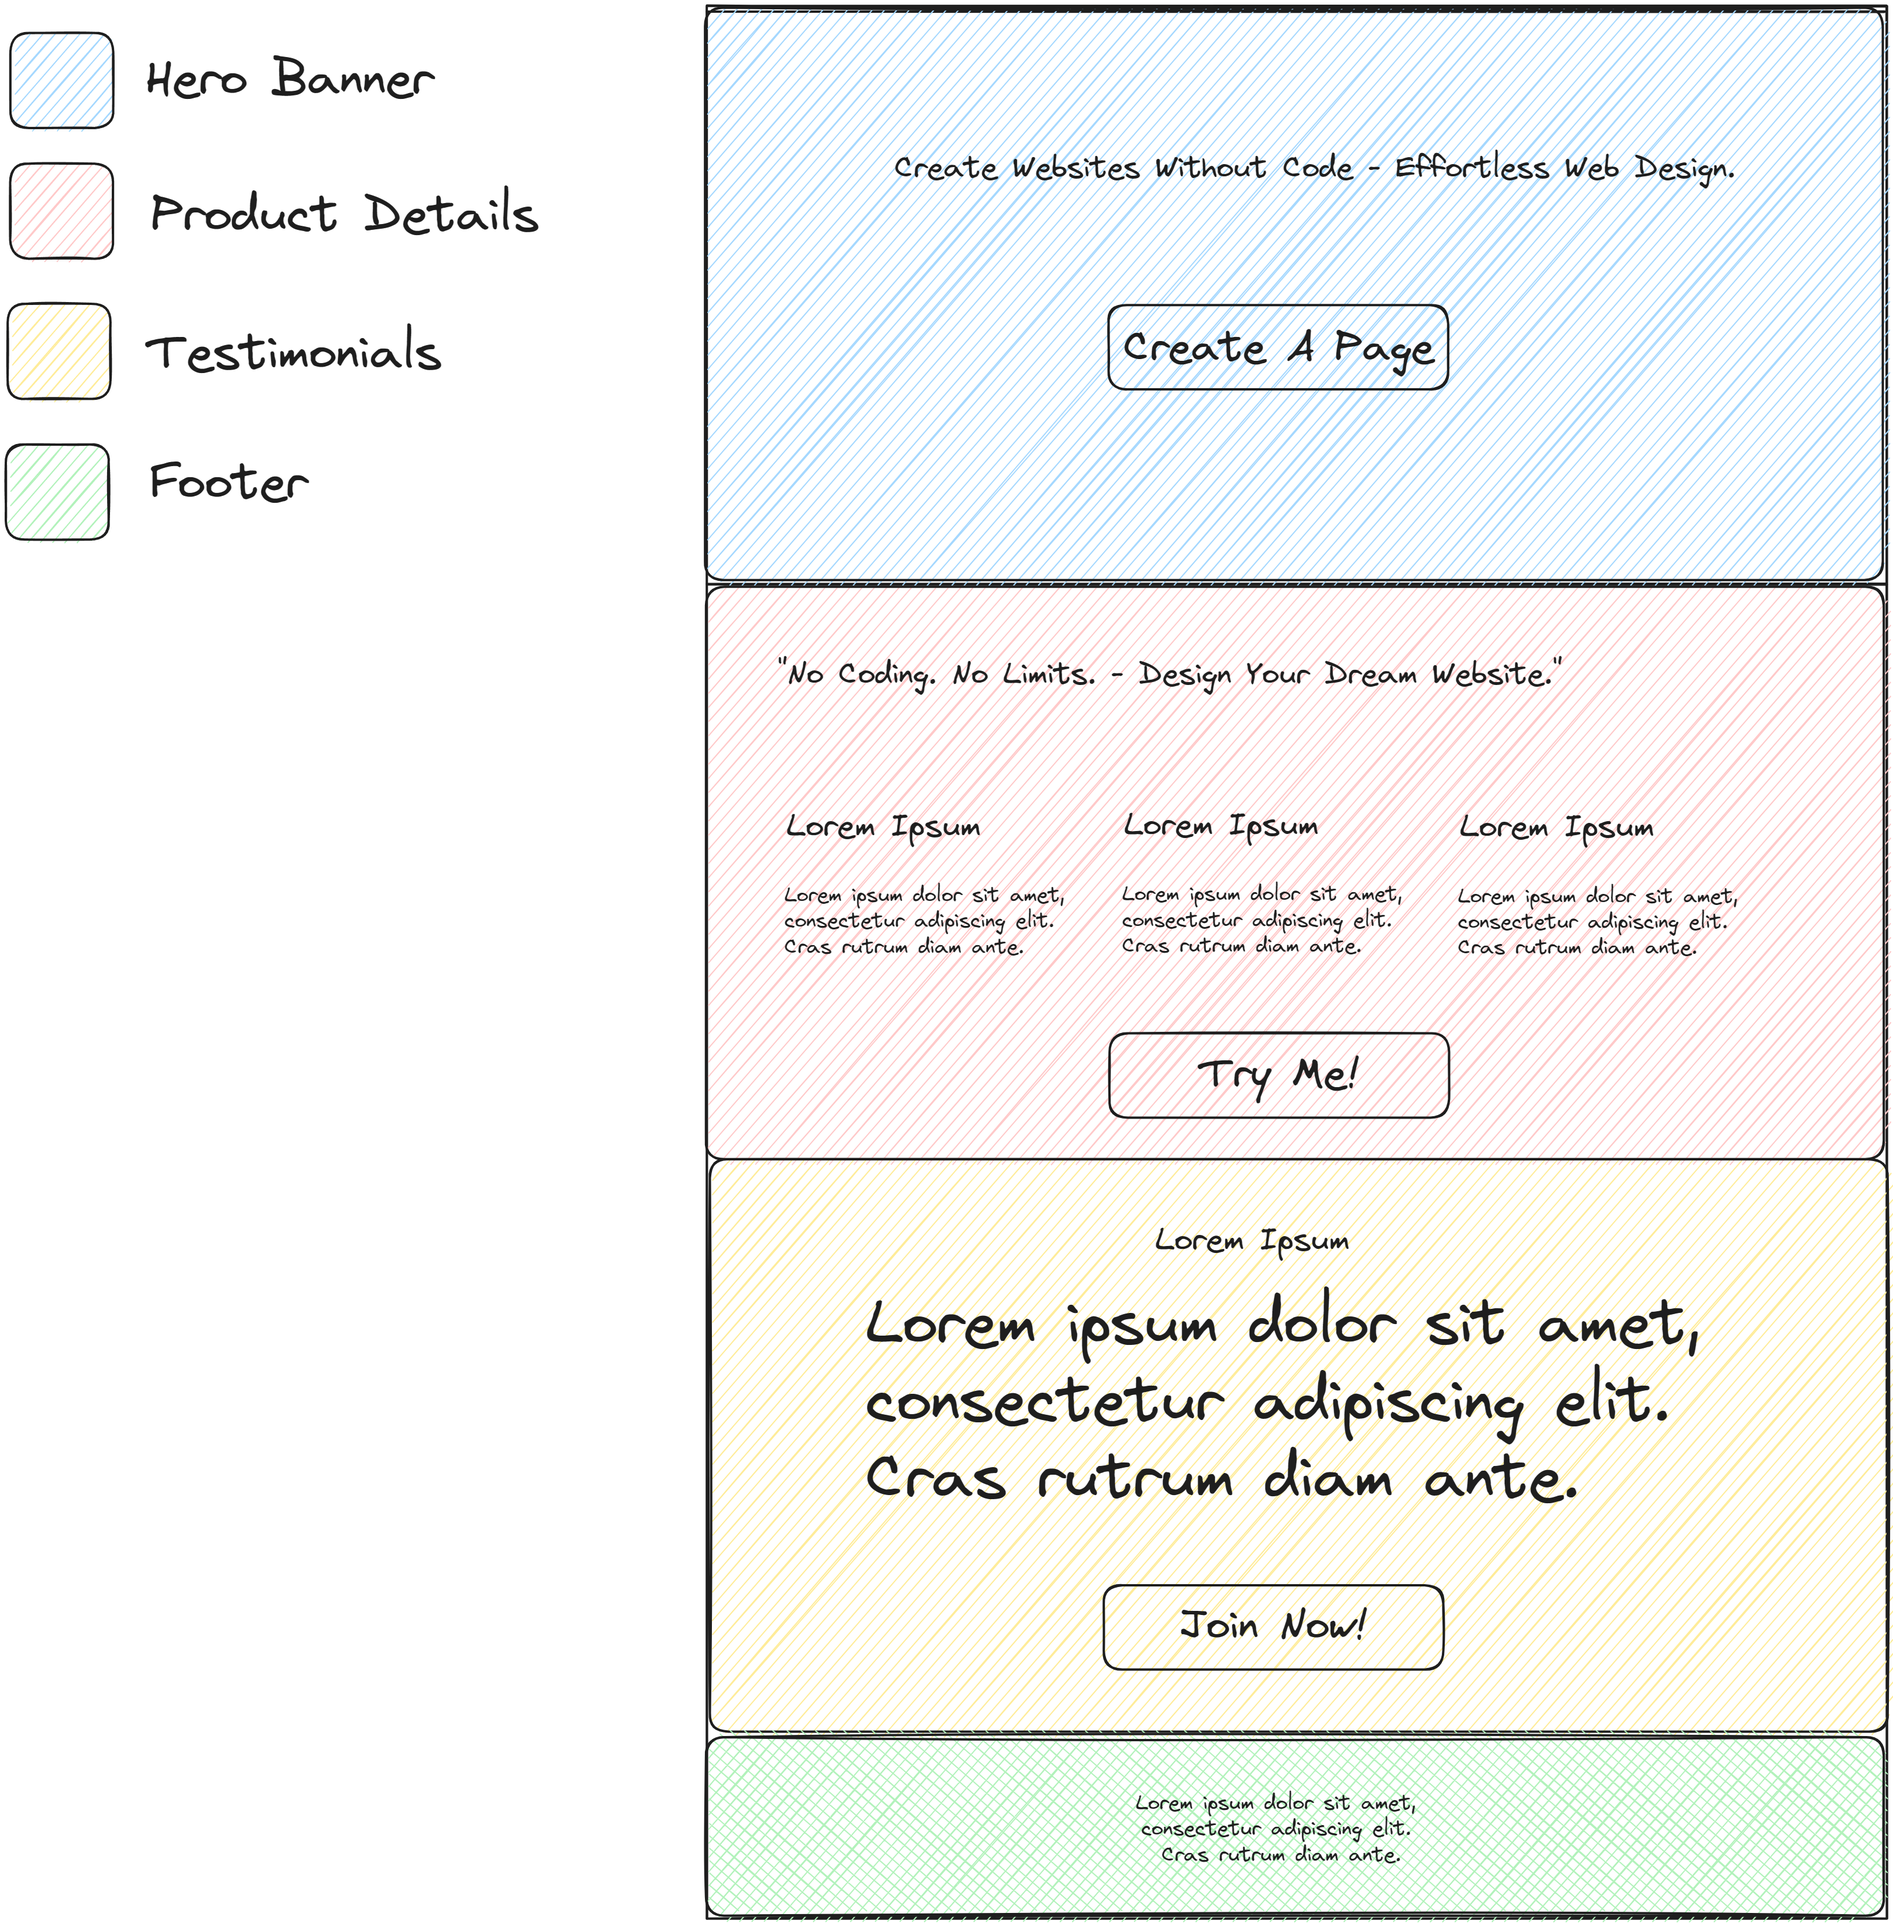
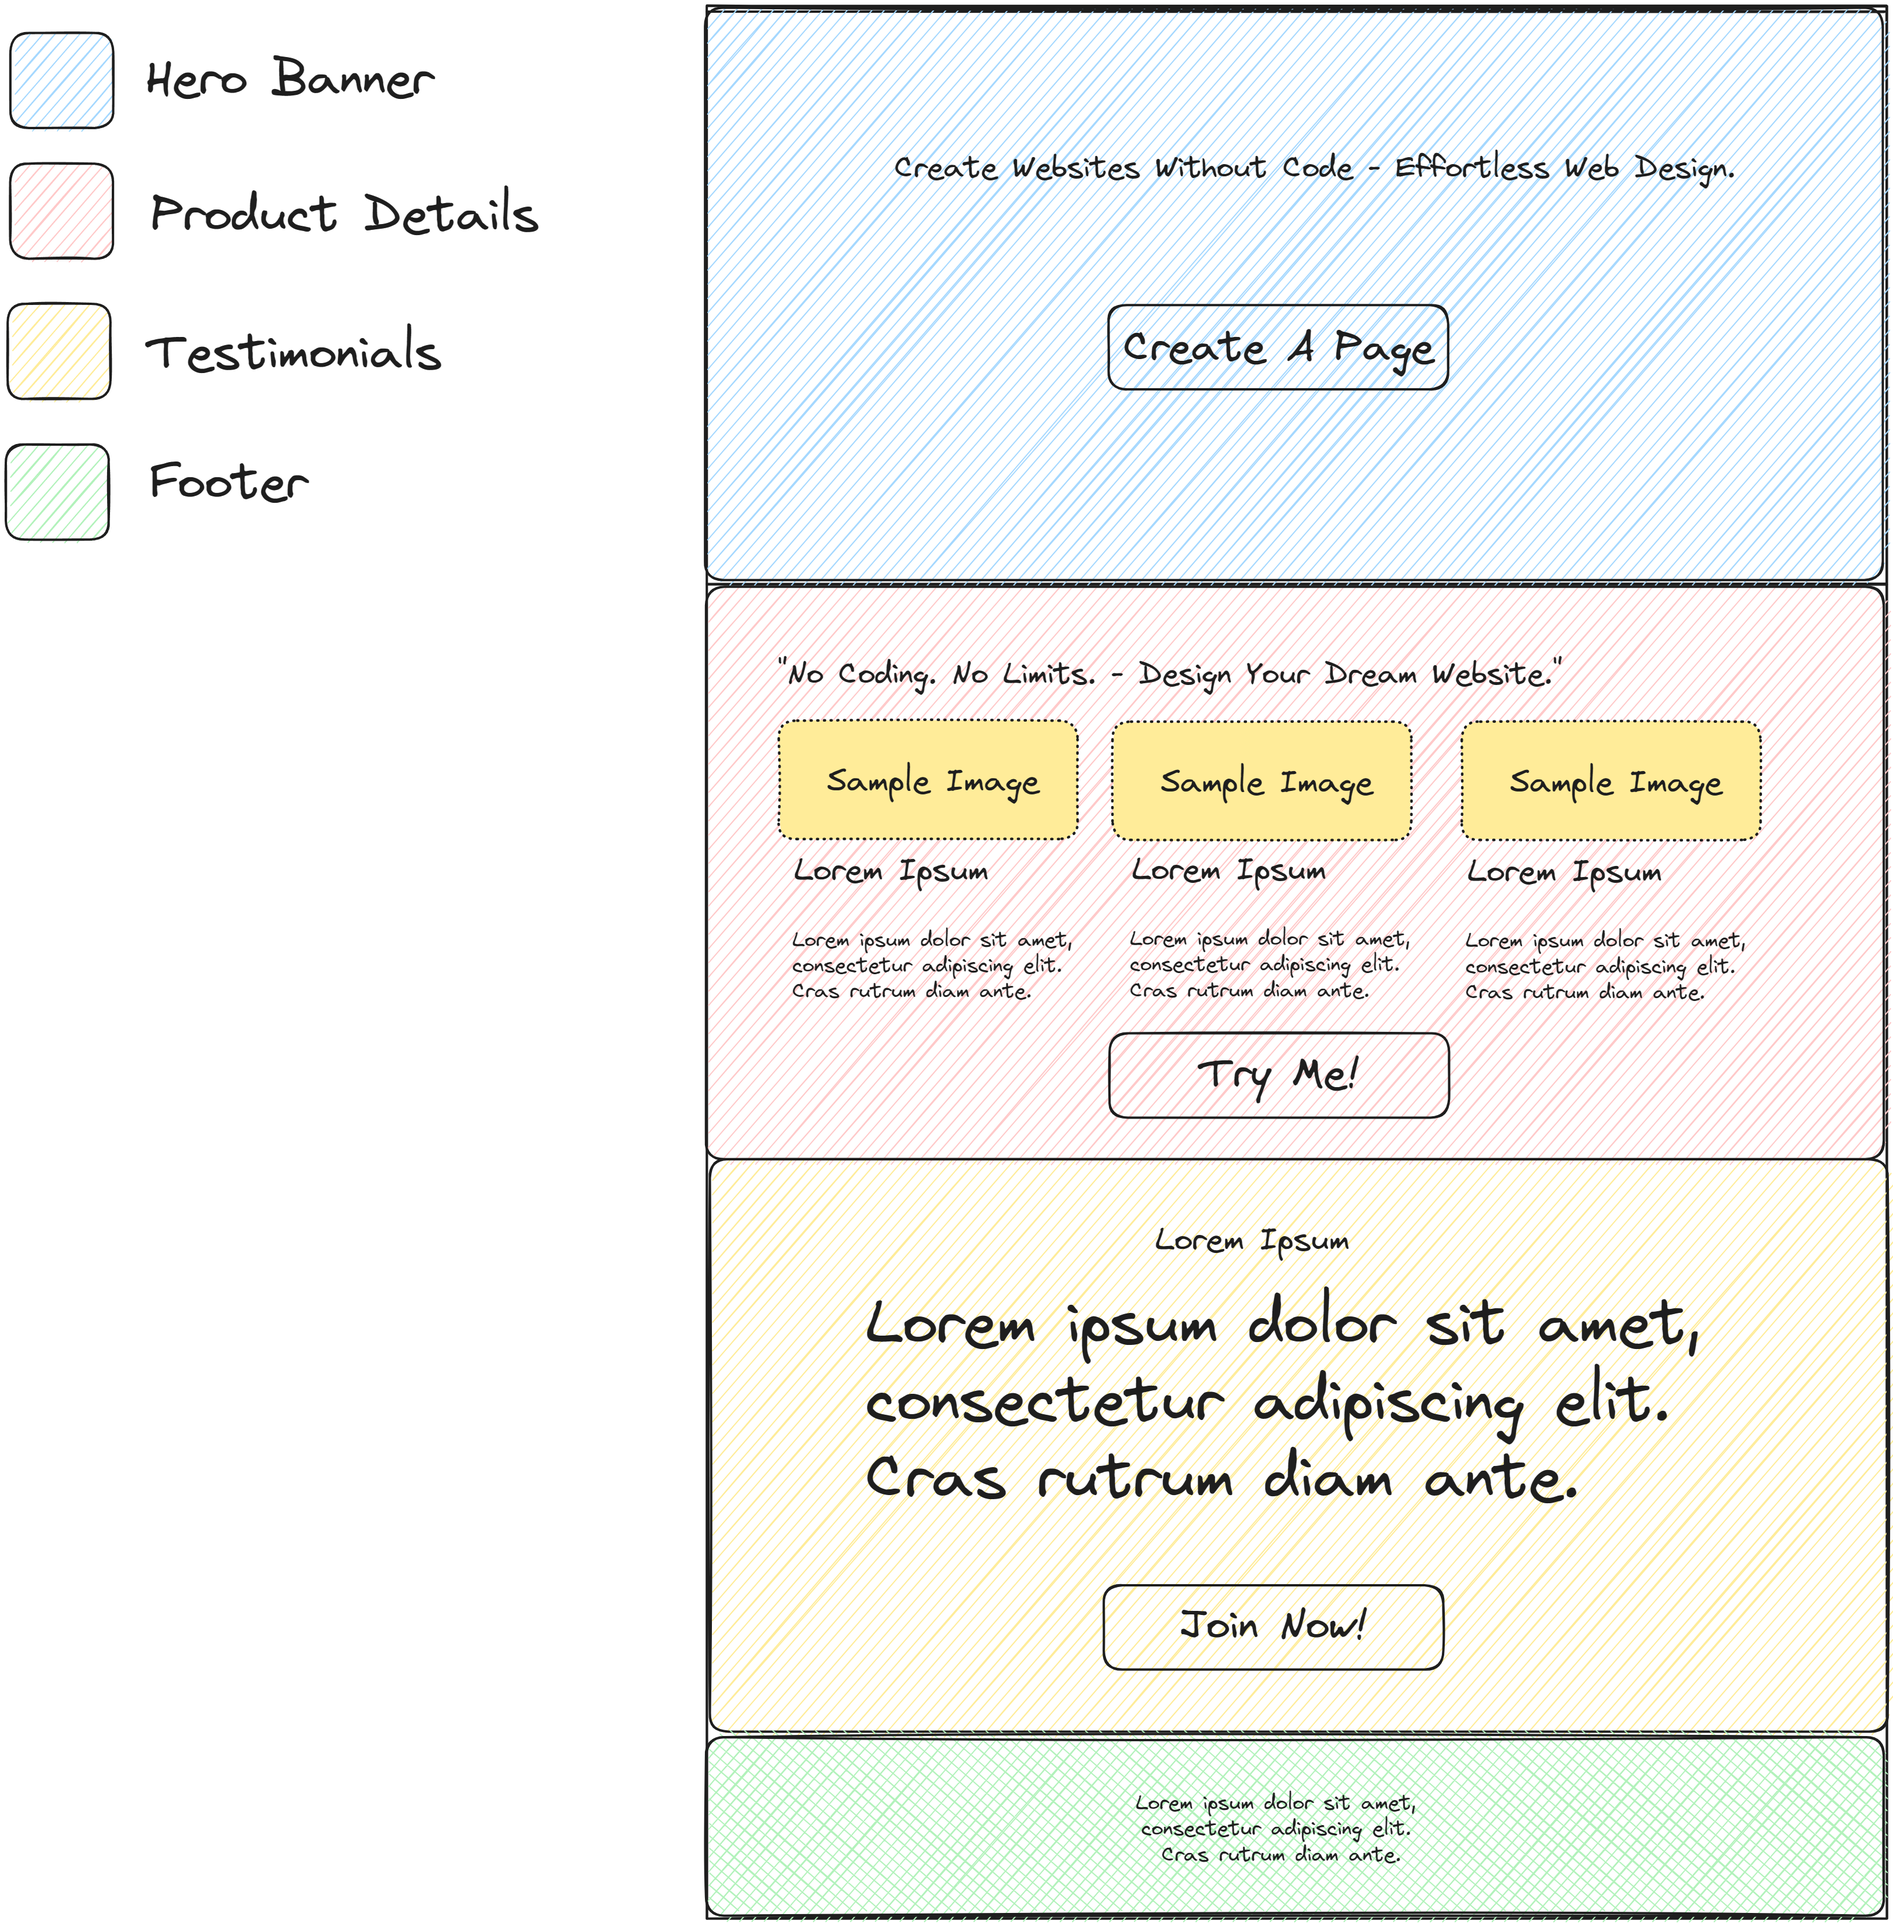
updated mockup and specifications

Changed region(s): [[0.4038, 0.3739, 0.9317, 0.5296]]

diff --git a/README.md b/README.md
@@ -1,1 +1,18 @@
-# marketing-tools-exam
+# Marketing Tools Exam
+## Specifications
+Develop a marketing page using HTML, CSS, and JavaScript that promotes a product, service, or concept of your choice. (The example in the mockup is a no-code platform)
+
+- You may choose any framework/tool that you would like to use.
+- Ensure that the page adheres to proper SEO standards and best practices for optimization.
+- Utilize proper HTML markup for images and include alt attributes with descriptive text.
+- Implement appropriate breakpoints to ensure optimal readability and usability on mobile devices.
+- Implement SEO-friendly meta tags, including title, description, and relevant keywords, reflecting the content of the page.
+- Break the sections by having background-images / background color per section.
+- (optional), You may change the layout/format or items as much as you would like.
+- (optional), Host the page in any tool/service that you would prefer. Here are some recommendations that are free of charge.
+    - https://vercel.com/
+    - https://www.cloudflare.com/ - Cloudflare Pages
+    - https://www.netlify.com/
+
+## Mockup
+![](Mockup.png)
